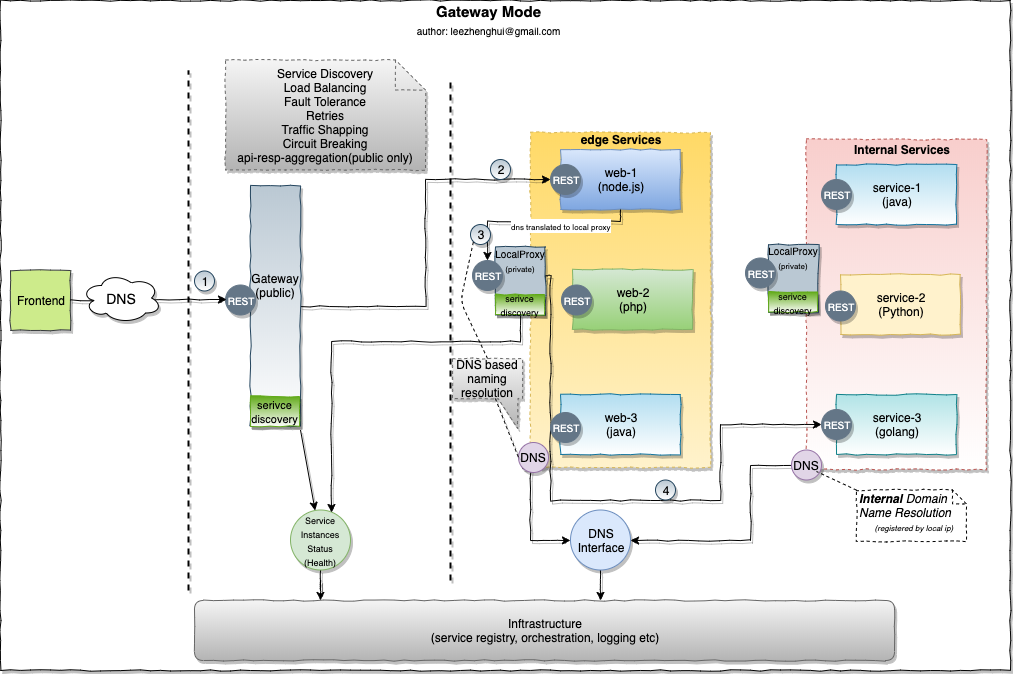
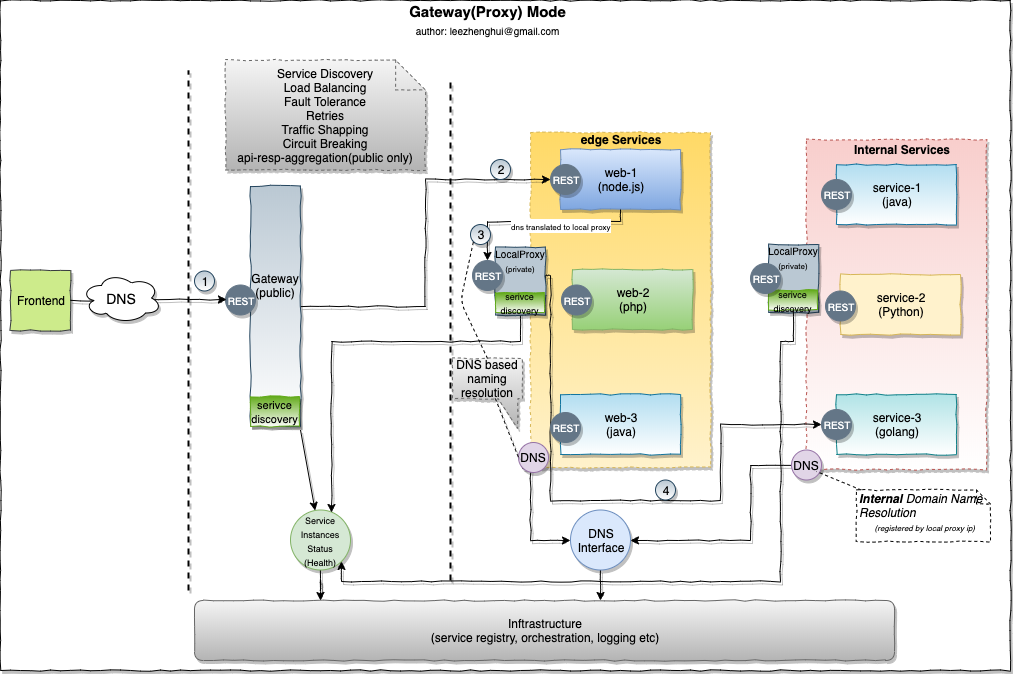
auto udpate by doc builder

diff --git a/_posts/2018-10-20-build-a-scalable-system-runtime-challenges.md b/_posts/2018-10-20-build-a-scalable-system-runtime-challenges.md
@@ -384,11 +384,11 @@ E.g: put a log-shipper in sidecar which responsible for streaming logs to `Kafka
 
 ### Gateway mode
 
-#### centralized internal service proxy
+#### Centralized internal service proxy
 
  <img src="{{ site.url }}/assets/materials/build-scalable-system/architecture-gateway-mode.png" alt="leaky-bucket-algorithm.jpeg">
 
-#### per-node internal service proxy
+#### Per-node internal service proxy
 
  <img src="{{ site.url }}/assets/materials/build-scalable-system/architecture-gateway-mode-v2.png" alt="leaky-bucket-algorithm.jpeg">
 
@@ -400,7 +400,7 @@ E.g: put a log-shipper in sidecar which responsible for streaming logs to `Kafka
     | **Pros** | **Cons**
     |:-|:-
     | Multiple languages support| <br>Limited for lightweight common cummunication protocol.<br>e.g: RESTful, gRPC
-    || <br>Introduce centralized connect point in network topology <br>Although it eaily can be horizontally scaled
+    || <br>Introduce (per-node)centralized connection point in network topology <br>Although it eaily can be horizontally scaled
     || <br>Introduce one more hop per communication,<br> has performance impact
 
 ### Embedded router mode 

diff --git a/_posts/2018-11-01-build-a-scalable-system-practice-on-gateway-mode-for-mixed-lang.md b/_posts/2018-11-01-build-a-scalable-system-practice-on-gateway-mode-for-mixed-lang.md
@@ -20,7 +20,7 @@ All of the sample source code is hosted on [repsoitry](https://github.com/leezhe
 
 ## Recall the gateway mode
 
-<img src="{{ site.url }}/assets/materials/build-scalable-system/architecture-gateway-mode.png" alt="leaky-bucket-algorithm.jpeg">
+<img src="{{ site.url }}/assets/materials/build-scalable-system/architecture-gateway-mode-v2.png" alt="leaky-bucket-algorithm.jpeg">
 
 Please refer to my early post [reference-modes-for-msa-service-communication](https://leezhenghui.github.io/microservices/2018/10/20/build-a-scalable-system-runtime-challenges.html#heading-reference-modes-for-msa-service-communication) for more details about the MSA runtime challenges.
 
